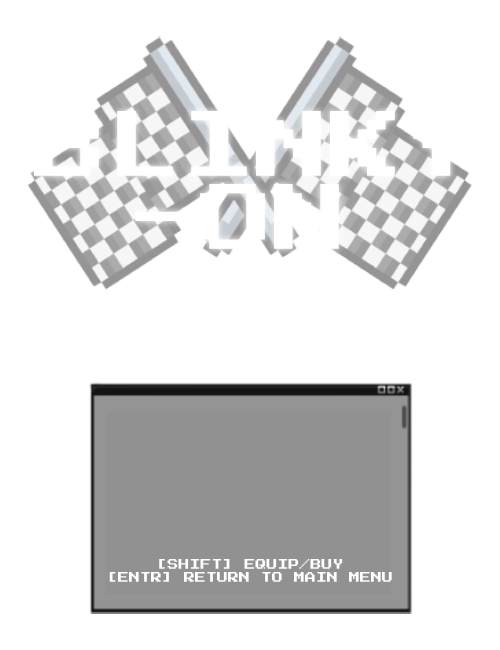
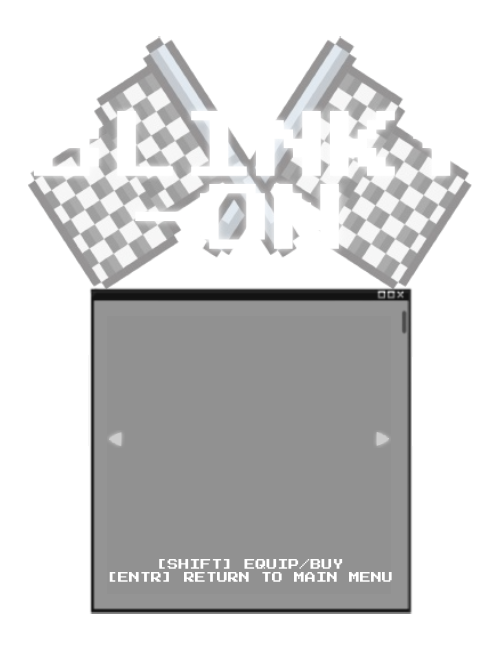
store done!

Changed region(s): [[0.18, 0.4308, 0.84, 0.6462], [0.75, 0.6462, 0.78, 0.7077], [0.21, 0.6462, 0.24, 0.7077]]

diff --git a/Main.java b/Main.java
@@ -11,6 +11,7 @@ import javax.imageio.ImageIO;
 import javax.swing.*;
 import java.io.*;
 import java.util.*;
+import java.util.Queue;
 
 public class Main extends JPanel implements Runnable, KeyListener {
 
@@ -36,13 +37,18 @@ public class Main extends JPanel implements Runnable, KeyListener {
     BufferedImage store;
     BufferedImage arrow;
     BufferedImage coin;
+    BufferedImage steeringWheel;
 
     Font font = new Font("Press Start 2P", Font.PLAIN, 20);
-    Font smallFont = new Font("Press Start 2P", Font.PLAIN, 14);
+    Font smallFont = new Font("Press Start 2P", Font.PLAIN, 13);
 
     Random random = new Random();
 
     ArrayList<BufferedImage> cars = new ArrayList<>();
+    ArrayList<BufferedImage> smallCars = new ArrayList<>();
+    char[] status = new char[12];
+    int[] costs = new int[12];
+    int[] handlings = new int[12];
     Car player;
 
     Map<Integer, ArrayList<Integer>> arrowStates = new HashMap<>();
@@ -68,10 +74,11 @@ public class Main extends JPanel implements Runnable, KeyListener {
 
     int coins;
     int playerIndex;
-    int selected = 0;
+    int selected;
+    Boolean boughtFailed = false;
 
     public void resetVars() {
-        player = new Car(cars.get(0), 250, 700, 0);
+        player = new Car(cars.get(playerIndex), 250, 700, 0);
         enemies.clear();
         speed = 1;
         arrowState = 1;
@@ -115,6 +122,28 @@ public class Main extends JPanel implements Runnable, KeyListener {
         return output;
     }
 
+    public void updateStats() {
+        try {
+            PrintWriter out = new PrintWriter(new File("stats.txt"));
+
+            out.println(coins);
+            out.println(playerIndex);
+
+            for (int i = 0; i < 36; i++) {
+                if (i < 12)
+                    out.println(status[i]);
+                else if (i < 24)
+                    out.println(costs[i - 12]);
+                else if (i < 36)
+                    out.println(handlings[i - 24]);
+            }
+
+            out.close();
+        } catch (IOException e) {
+            System.out.println("stats.txt is missing!");
+        }
+    }
+
     public Main() {
         // JPanel default settings
         setPreferredSize(new Dimension(screenWidth, screenHeight));
@@ -149,6 +178,7 @@ public class Main extends JPanel implements Runnable, KeyListener {
             highscores = ImageIO.read(new File("assets/highscores.png"));
             store = ImageIO.read(new File("assets/store.png"));
             coin = ImageIO.read(new File("assets/coin.png"));
+            steeringWheel = ImageIO.read(new File("assets/steering-wheel.png"));
 
             bgHeight = bg.getHeight();
 
@@ -164,6 +194,11 @@ public class Main extends JPanel implements Runnable, KeyListener {
             cars.add(ImageIO.read(new File("assets/cars/school-bus.png")));
             cars.add(ImageIO.read(new File("assets/cars/red-car-with-white-stripes.png")));
             cars.add(ImageIO.read(new File("assets/cars/police-car.png")));
+
+            smallCars.add(ImageIO.read(new File("assets/cars/small/white-truck.png")));
+            smallCars.add(ImageIO.read(new File("assets/cars/small/red-truck.png")));
+            smallCars.add(ImageIO.read(new File("assets/cars/small/school-bus.png")));
+
         } catch (IOException e) {
             e.printStackTrace();
         }
@@ -184,7 +219,25 @@ public class Main extends JPanel implements Runnable, KeyListener {
         speeds.put(600, 8);
         speeds.put(1000, 9);
 
-        player = new Car(cars.get(0), 250, 700, 0);
+        try {
+            BufferedReader in = new BufferedReader(new FileReader("stats.txt"));
+            coins = Integer.parseInt(in.readLine());
+            playerIndex = Integer.parseInt(in.readLine());
+            for (int i = 0; i < 36; i++) {
+                if (i < 12)
+                    status[i] = in.readLine().charAt(0);
+                else if (i < 24) {
+                    costs[i - 12] = Integer.parseInt(in.readLine());
+                    System.out.println(costs[i - 12]);
+                } else if (i < 36)
+                    handlings[i - 24] = Integer.parseInt(in.readLine());
+            }
+            in.close();
+        } catch (IOException e) {
+            System.out.println("stats.txt is missing!");
+        }
+        player = new Car(cars.get(playerIndex), 250, 700, 0);
+        selected = playerIndex;
     }
 
     public void update() {
@@ -206,7 +259,11 @@ public class Main extends JPanel implements Runnable, KeyListener {
         g.drawImage(bg, 0, y, null);
         g.drawImage(bg, 0, y + bgHeight, null);
         g.drawImage(bg, 0, y - bgHeight, null);
+
         player.draw(g);
+
+        g.drawImage(coin, 390, 10, null);
+        g.drawString(coins + "", 420, 34);
 
         if (state != 6 && state != 7) {
             // player's ultimate, coolio introduction!!!!
@@ -217,19 +274,43 @@ public class Main extends JPanel implements Runnable, KeyListener {
             }
             // player's movement
             if (leftPressed && player.getX() > 85)
-                player.move(2, "left");
+                player.move(handlings[playerIndex], "left");
             if (rightPressed && player.getX() < 330)
-                player.move(2, "right");
+                player.move(handlings[playerIndex], "right");
 
-            if (state != 5)
+            if (state != 5 && state != 1)
                 g.drawImage(arrow, arrowStates.get(arrowState).get(0), arrowStates.get(arrowState).get(1), null);
         }
         if (state == 0) { // 0 - Menu
             g.drawImage(menu, 0, 0, null);
-            // g.drawImage(coin, 360, 10, null);
         } else if (state == 1) { // 1 - Store/MarketPlace
+            g.setFont(smallFont);
             g.drawImage(store, 0, 0, null);
-            g.drawImage(cars.get(selected), 160, 400, null);
+
+            if (selected != 7 && selected != 8 && selected != 9)
+                g.drawImage(cars.get(selected), 160, 380, null);
+            else
+                g.drawImage(smallCars.get(selected - 7), 170, 365, null);
+
+            if (status[selected] == 'e') {
+                g.drawString("Equipped!", 200, 350);
+            } else if (status[selected] == 'u') {
+                g.drawString("Unlocked!", 200, 350);
+            } else
+                g.drawString("Locked!", 210, 350);
+
+            if (boughtFailed) {
+                g.drawString("You don't", 240, 430);
+                g.drawString("have", 240, 445);
+                g.drawString("enough", 240, 460);
+                g.drawString("coins!", 240, 475);
+            } else {
+                g.drawImage(coin, 240, 420, null);
+                g.drawString(Integer.toString(costs[selected]), 275, 440);
+                g.drawImage(steeringWheel, 240, 450, null);
+                g.drawString(handlings[selected] + "", 275, 470);
+            }
+
         } else if (state == 2) { // 2 - Past HighScores
             g.drawImage(highscores, 0, 0, null);
             g.setFont(smallFont);
@@ -317,7 +398,7 @@ public class Main extends JPanel implements Runnable, KeyListener {
             }
 
             g.drawString("score: " + Integer.toString(score), 20, 40);
-
+            updateStats(); // continuously update coins
         } else if (state == 6) { // 6 - Pause
 
         } else if (state == 7) { // 7 - Game Over
@@ -358,21 +439,45 @@ public class Main extends JPanel implements Runnable, KeyListener {
                 rightPressed = true;
         } else if (state == 1) { // 1 - Store/MarketPlace
             if (e.getKeyCode() == KeyEvent.VK_ENTER) {
+                boughtFailed = false;
                 selected = playerIndex;
                 state = 0;
             } else if (e.getKeyCode() == KeyEvent.VK_SHIFT) {
                 // check for equip
-                // check for buy
-            } else if (e.getKeyCode() == KeyEvent.VK_LEFT)
+                if (status[selected] != 'l') {
+                    boughtFailed = false;
+                    playerIndex = selected;
+                    player = new Car(cars.get(playerIndex), player.getX(), player.getY(), 0);
+                    for (int i = 0; i < 12; i++) {
+                        if (status[i] == 'e')
+                            status[i] = 'u';
+                    }
+                    status[selected] = 'e';
+                }
+                // check for buy - WORKING ON IT OIAEREJAEIROUGERAGIOUHAEGRIOPHU
+                else {
+                    if (coins >= costs[selected]) {
+                        status[selected] = 'u';
+                        coins -= costs[selected];
+                    } else {
+                        boughtFailed = true;
+                    }
+                }
+                updateStats();
+            } else if (e.getKeyCode() == KeyEvent.VK_LEFT) {
+                boughtFailed = false;
                 if (!(selected == 0))
                     selected--;
                 else
                     selected = 11;
-            else if (e.getKeyCode() == KeyEvent.VK_RIGHT)
+            } else if (e.getKeyCode() == KeyEvent.VK_RIGHT) {
+                boughtFailed = false;
                 if (!(selected == 11))
                     selected++;
                 else
                     selected = 0;
+            }
+            System.out.println(coins);
         } else if (state == 2 || state == 3 || state == 4) { // 3 - Instructions
             if (e.getKeyCode() == KeyEvent.VK_ENTER)
                 state = 0;
